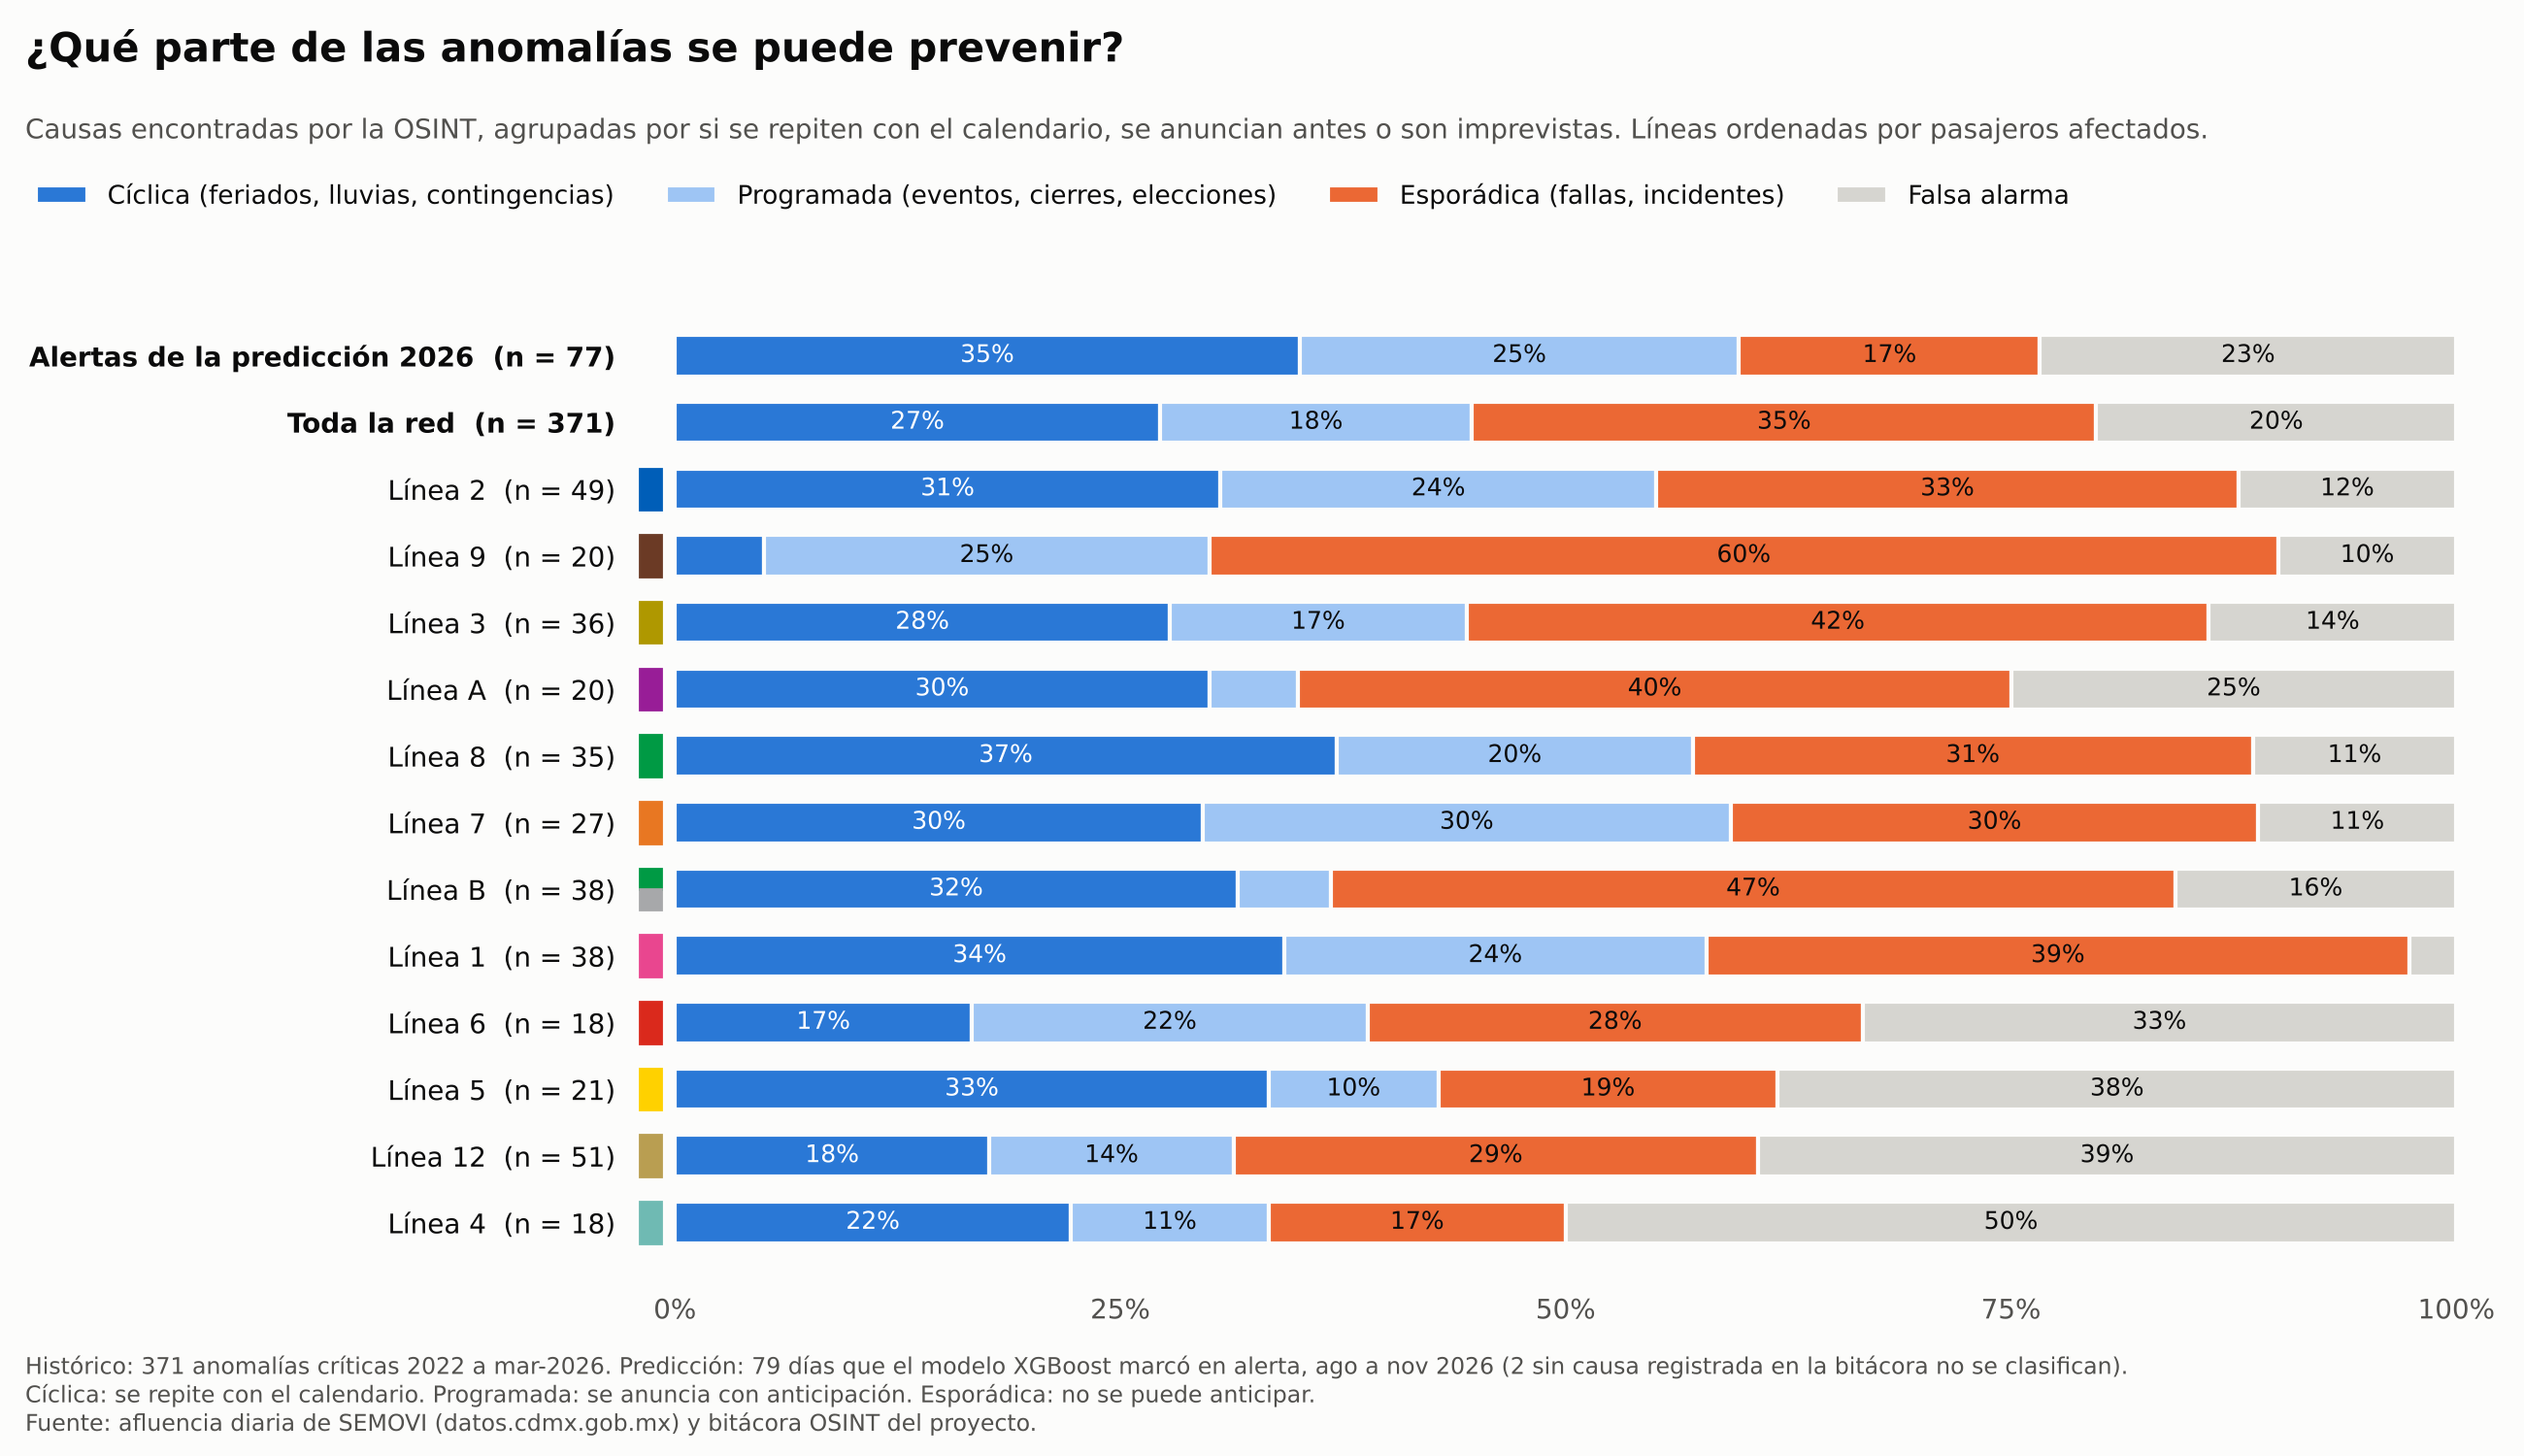
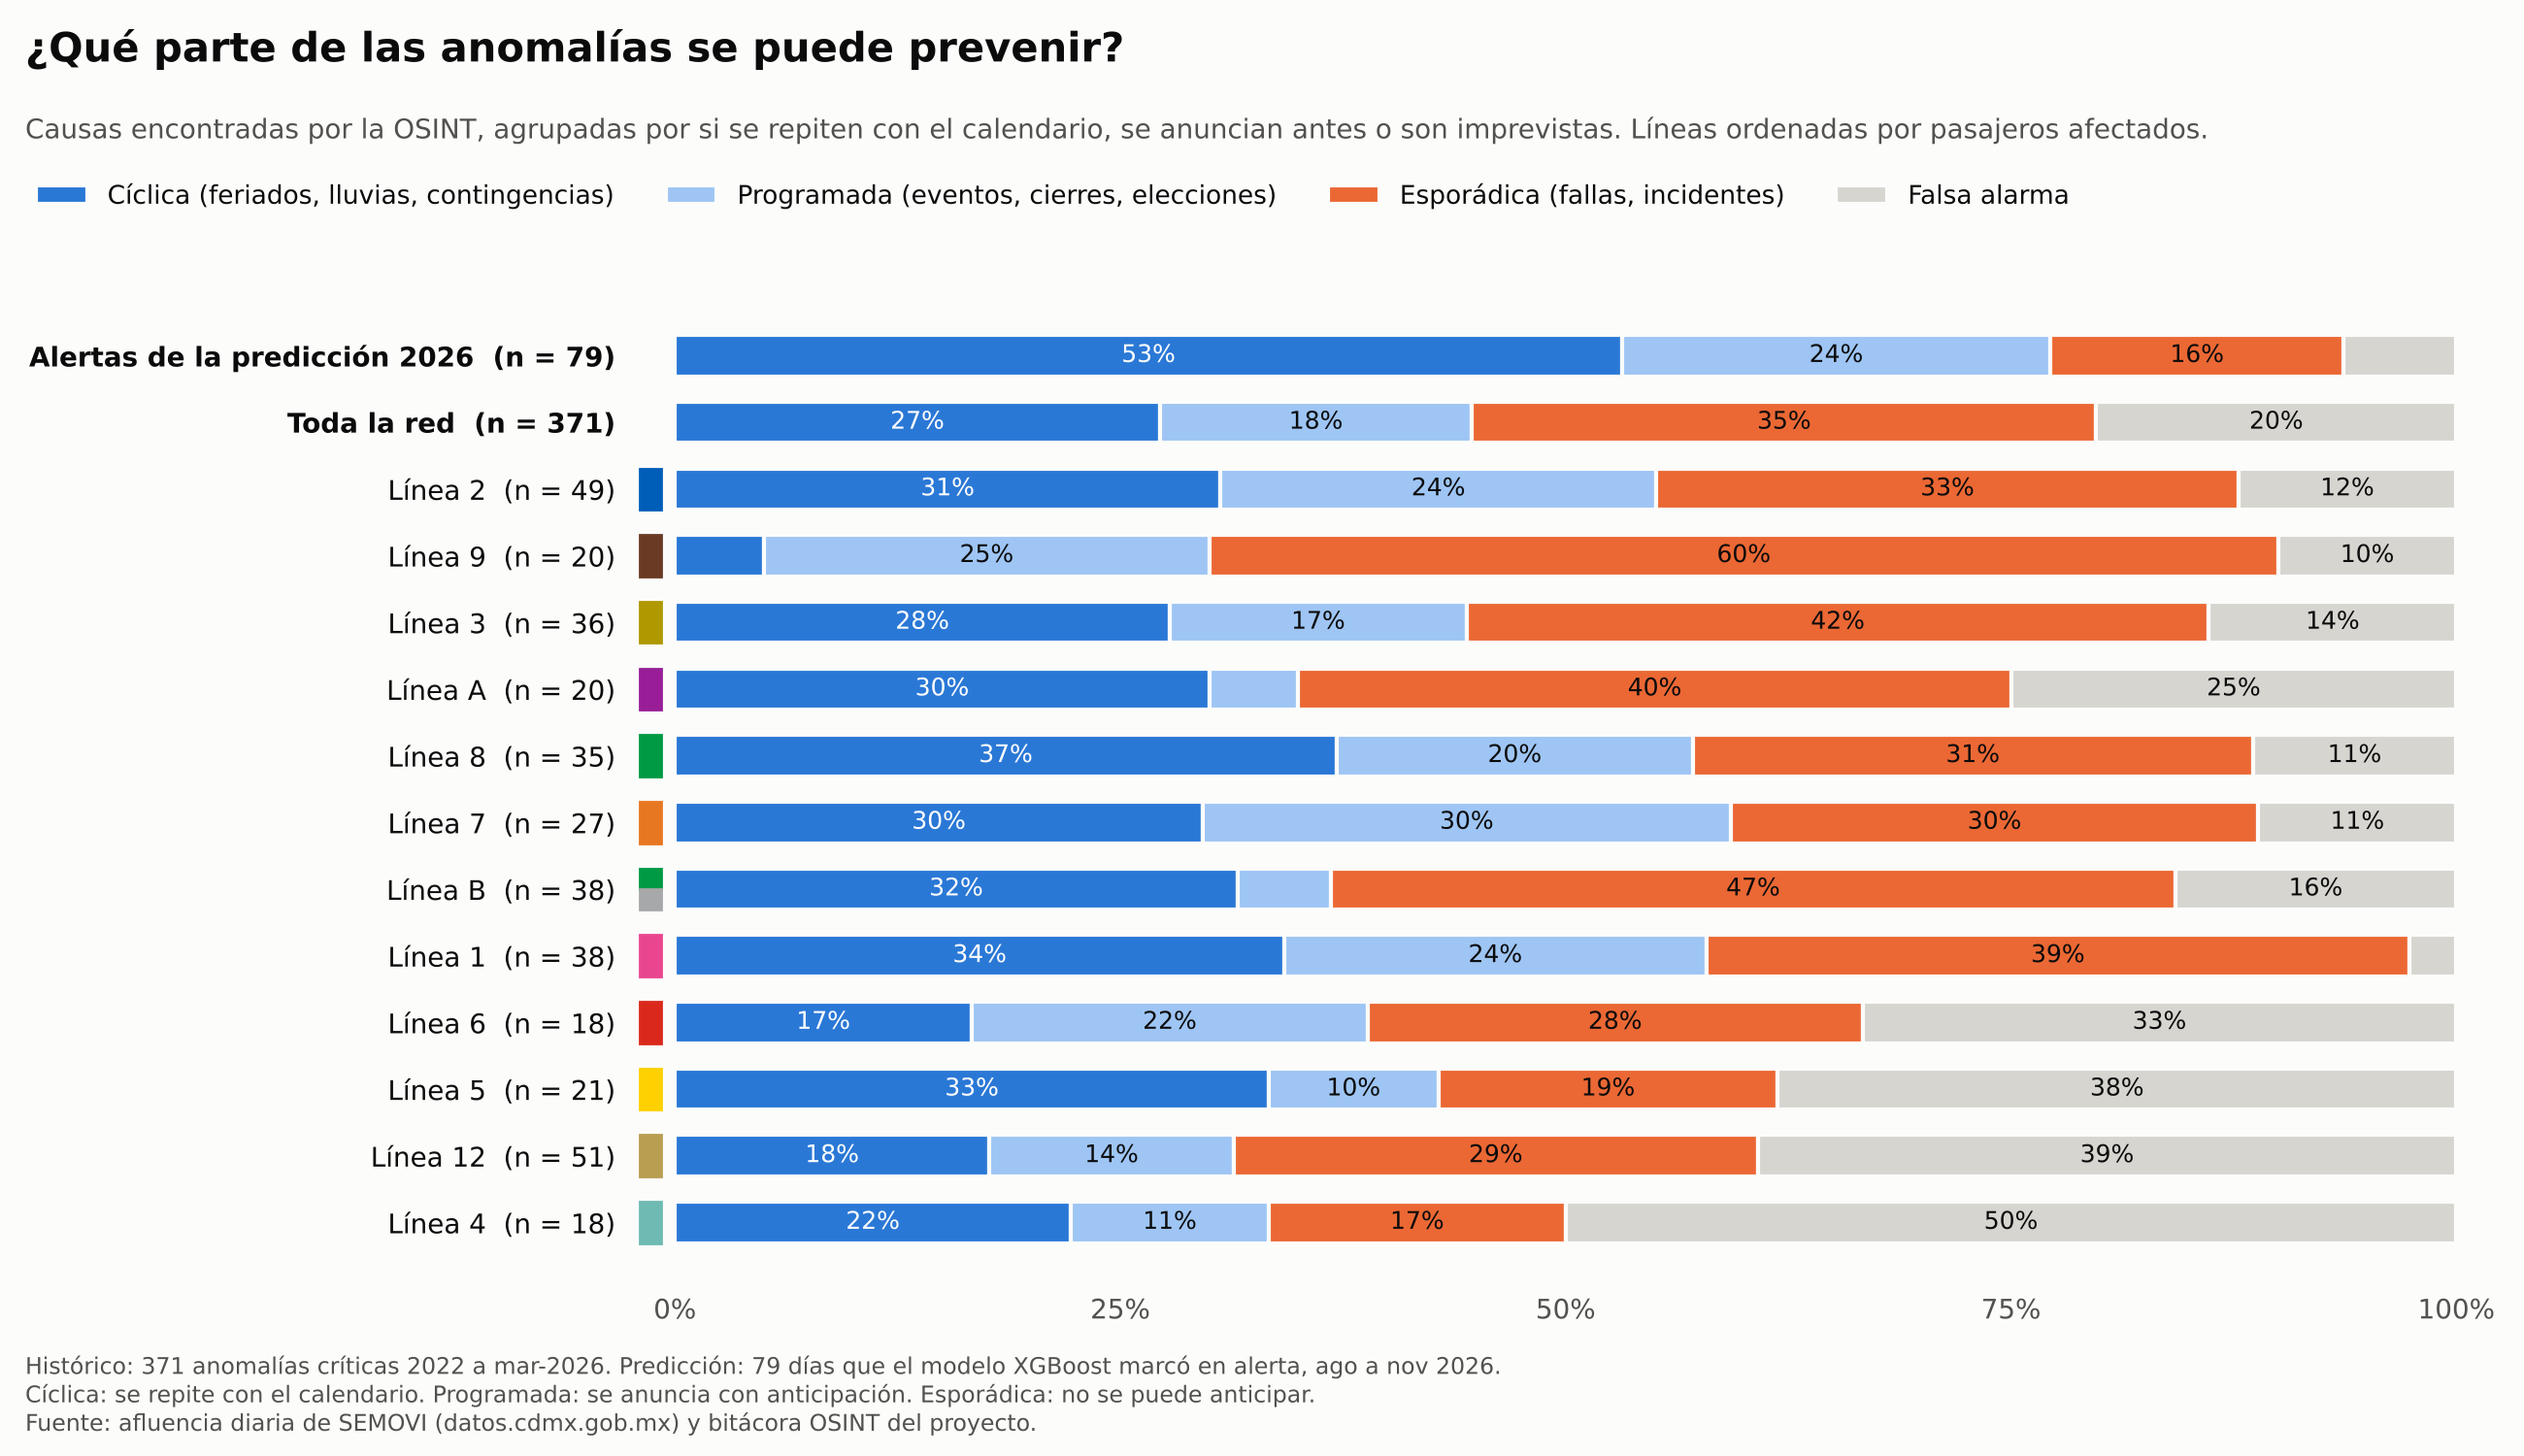
OSINT original: las filas del 16-sep ajustadas también cuentan con causa Feriado (gráficas 01, 02 y 05)
Claude-Session: https://claude.ai/code/session_01TB6ZcUR8u5C6bkpbtsjh4K

Changed region(s): [[0.6854, 0.2147, 0.9346, 0.276], [0.4985, 0.2147, 0.6542, 0.276], [0.5919, 0.92, 0.8412, 0.9507]]

diff --git a/validacion_predicciones/validacion_predicciones.py b/validacion_predicciones/validacion_predicciones.py
@@ -18,6 +18,8 @@ import matplotlib.pyplot as plt
 from matplotlib.colors import LinearSegmentedColormap
 sys.path.insert(0, os.getcwd())   # historial.py vive en la raiz del repo
 from historial import registrar_corrida
+sys.path.insert(0, os.path.join(os.getcwd(), 'validacion_predicciones'))
+from bitacora_prediccion import BITACORA_PRED, leer_bitacora_pred   # OSINT original + ajuste del 16-sep
 
 CARPETA = 'validacion_predicciones'
 DATOS = f'{CARPETA}/datos'
@@ -26,12 +28,10 @@ RES = f'{CARPETA}/resultados'
 os.makedirs(IMG, exist_ok=True)
 os.makedirs(RES, exist_ok=True)
 
-BITACORA_PRED = f'{DATOS}/bitacora_validacion_predicciones_original.csv'   # OSINT manual original del equipo (79 filas, sin correcciones)
 BITACORA_HIST = 'bitacora_investigacion_anomalias_criticas.csv'             # OSINT manual del historico (raiz del repo)
 CORRIDA = f'{DATOS}/propuesta_anomalias_futuras_corrida_validacion.xlsx'    # corrida del modelo de la que salio la muestra
 SEMOVI = f'{DATOS}/afluenciastc_desglosado_2026-01_a_2026-09.csv'          # afluencia real 2026 (datos.cdmx.gob.mx)
 
-FERIADO_AJUSTE = '2026-09-16'   # filas "No" de este dia pasan a "Parcial" (ver leer_bitacora_pred)
 FECHA_CORTE = '2026-11-05'       # ultimo dia ya ocurrido cuando se sorteo la muestra
 INICIO_REAL = '2026-08-02'       # primer dia en alerta de la corrida
 TASA_HISTORICA = 3.0             # % de estacion-dias CRITICOS en el historico (modeling/ANALISIS.md: 2.6% a 3.3%)
@@ -65,18 +65,6 @@ print(N_h.to_string())
 # en la muestra porque se investigo completo).
 
 # %%
-def leer_bitacora_pred(ruta):
-    # La bitacora original viene de la hoja de calculo del equipo: fechas m/d/aaaa y afluencia con comas de miles
-    df = pd.read_csv(ruta, thousands=',')
-    df['Fecha'] = pd.to_datetime(df['Fecha'], format='%m/%d/%Y')
-    # Unico ajuste a la bitacora original (decision del equipo, 25-nov-2026): el 16-sep es feriado
-    # (Independencia), asi que las filas de ese dia calificadas "No" cuentan como evento indirecto.
-    # Solo cambia la calificacion; la causa (Hallazgo_Principal) se deja como la capturo el equipo.
-    feriado_no = (df['Fecha'] == FERIADO_AJUSTE) & df['Ocurrio_Evento'].str.startswith('No')
-    df.loc[feriado_no, 'Ocurrio_Evento'] = 'Parcial - Evento cercano/indirecto'
-    print(f'Ajuste feriado {FERIADO_AJUSTE}: {int(feriado_no.sum())} filas de "No" a "Parcial"')
-    return df
-
 pred = leer_bitacora_pred(BITACORA_PRED)
 pred['respuesta'] = pred['Ocurrio_Evento'].str.split(' - ').str[0].str.strip()
 conteo = pd.crosstab(pred['Estrato'], pred['respuesta']).reindex(ESTRATOS, fill_value=0)

diff --git a/estaciones_y_causas/estaciones_y_causas.py b/estaciones_y_causas/estaciones_y_causas.py
@@ -20,6 +20,8 @@ import matplotlib.pyplot as plt
 from matplotlib.colors import LinearSegmentedColormap
 sys.path.insert(0, os.getcwd())   # historial.py vive en la raiz del repo
 from historial import registrar_corrida
+sys.path.insert(0, os.path.join(os.getcwd(), 'validacion_predicciones'))
+from bitacora_prediccion import leer_bitacora_pred   # OSINT de los dias en alerta 2026 (original + ajuste del 16-sep)
 
 CARPETA = 'estaciones_y_causas'
 IMG = f'{CARPETA}/img'
@@ -29,7 +31,6 @@ os.makedirs(RES, exist_ok=True)
 
 MASTER = 'master_auditoria_consenso_MAD.csv'
 BITACORA = 'bitacora_investigacion_anomalias_criticas.csv'
-BITACORA_PRED = 'validacion_predicciones/datos/bitacora_validacion_predicciones_original.csv'   # OSINT original de los dias en alerta 2026
 TOP_ESTACIONES = 15
 RUIDO = 'Falsa Alarma'   # causa que sirve de referencia: desviaciones sin evento identificado
 
@@ -174,7 +175,7 @@ tipo_causa['pct_de_registros'] = tipo_causa['registros'] / len(osint) * 100
 tipo_causa.round(1).to_csv(f'{RES}/causas_ciclicas_programadas_esporadicas.csv', index=False, encoding='utf-8-sig')
 tipo_linea = pd.crosstab(osint['linea'], osint['tipo_causa']).reindex(columns=TIPOS, fill_value=0)
 tipo_linea.loc['Toda la red'] = tipo_linea.sum()
-pred = pd.read_csv(BITACORA_PRED)
+pred = leer_bitacora_pred()
 pred_tipo = pred['Hallazgo_Principal'].str.strip().str.split(' (', regex=False).str[0].map(TIPO_CAUSA)
 tipo_linea.loc['Alertas de la predicción 2026'] = pred_tipo.value_counts().reindex(TIPOS, fill_value=0)
 tipo_linea_pct = tipo_linea.div(tipo_linea.sum(axis=1), axis=0) * 100

diff --git a/validacion_predicciones/bitacora_prediccion.py b/validacion_predicciones/bitacora_prediccion.py
@@ -1,0 +1,23 @@
+# Lectura de la bitacora OSINT de las predicciones, compartida por
+# validacion_predicciones.py y estaciones_y_causas.py (asi ambos usan los mismos datos).
+# La investigacion es manual; aqui solo se lee y se aplica el ajuste acordado por el equipo.
+import pandas as pd
+
+BITACORA_PRED = 'validacion_predicciones/datos/bitacora_validacion_predicciones_original.csv'   # OSINT original del equipo (79 filas)
+FERIADO_AJUSTE = '2026-09-16'   # Independencia: filas "No" de este dia pasan a Parcial / Feriado
+CAUSA_FERIADO = 'Feriado No Oficial / Cultural'
+
+
+def leer_bitacora_pred(ruta=BITACORA_PRED, avisar=True):
+    # La bitacora original viene de la hoja de calculo del equipo: fechas m/d/aaaa y afluencia con comas de miles
+    df = pd.read_csv(ruta, thousands=',')
+    df['Fecha'] = pd.to_datetime(df['Fecha'], format='%m/%d/%Y')
+    # Unico ajuste a la bitacora original (decision del equipo, 25-nov-2026): el 16-sep es feriado,
+    # asi que las filas de ese dia calificadas "No" cuentan como evento indirecto ("Parcial") y su
+    # causa pasa a feriado. El CSV no se modifica; el ajuste vive solo aqui.
+    feriado_no = (df['Fecha'] == FERIADO_AJUSTE) & df['Ocurrio_Evento'].str.startswith('No')
+    df.loc[feriado_no, 'Ocurrio_Evento'] = 'Parcial - Evento cercano/indirecto'
+    df.loc[feriado_no, 'Hallazgo_Principal'] = CAUSA_FERIADO
+    if avisar:
+        print(f'Ajuste feriado {FERIADO_AJUSTE}: {int(feriado_no.sum())} filas de "No" a "Parcial" con causa "{CAUSA_FERIADO}"')
+    return df

diff --git a/validacion_predicciones/ANALISIS.md b/validacion_predicciones/ANALISIS.md
@@ -13,13 +13,14 @@ La investigación OSINT se hizo a mano; el código solo la lee para calcular tas
 
 | Archivo | Qué es |
 |---|---|
+| `bitacora_prediccion.py` | Lee la bitácora original y aplica el ajuste del 16-sep; la usan este script y `estaciones_y_causas.py` |
 | `validacion_predicciones.py` | Calcula estratos, tasas de la OSINT, cruce con SEMOVI y las 4 gráficas. Se corre desde la raíz del repo |
 | `datos/bitacora_validacion_predicciones_original.csv` | **Fuente vigente.** OSINT original del equipo: 79 estación-días investigados, tal como se capturó en la hoja de cálculo (fechas m/d/aaaa, afluencia con comas de miles, `Afluencia_Real_SEMOVI` vacía) |
 | `datos/respaldo_version_corregida/` | Versión corregida anterior (`bitacora_validacion_predicciones_final.csv`) y su registro de cambios. **Ya no se usa**: el equipo determinó que esa corrección era incorrecta. Se conserva solo como respaldo |
 | `datos/propuesta_anomalias_futuras_corrida_validacion.xlsx` | Corrida del modelo de la que salió la muestra (950 días en alerta, hojas de muestreo e instrucciones). **No** es la salida actual del notebook: la celda que escribe `propuesta_anomalias_futuras.xlsx` la sobrescribiría, por eso va con otro nombre |
 | `datos/afluenciastc_desglosado_2026-01_a_2026-09.csv` | Afluencia diaria desglosada de SEMOVI (datos.cdmx.gob.mx), 1-ene a 30-sep-2026, tal como se descargó |
 | `resultados/tasas_osint_por_estrato.csv` | Conteos Sí / Parcial / No por estrato, tasas y tasa ponderada |
-| `resultados/causas_osint_prediccion.csv` | Distribución de causas (`Hallazgo_Principal`; las 2 filas sin causa capturada salen como "Sin causa registrada") |
+| `resultados/causas_osint_prediccion.csv` | Distribución de causas (`Hallazgo_Principal`, con el ajuste del 16-sep) |
 | `resultados/osint_vs_afluencia_real.csv` | Las 49 filas de la bitácora con dato de SEMOVI: respuesta OSINT, afluencia real, etiqueta del detector y si coinciden |
 | `resultados/dias_en_alerta_vs_afluencia_real.csv` | Los 230 días en alerta con dato real: esperado, banda, real, z robusto y etiqueta del detector |
 | `resultados/tasas_afluencia_real_por_estrato.csv` | Tasa de anomalía CRÍTICA real y de cualquier anomalía por estrato |
@@ -65,11 +66,10 @@ Se usa la bitácora **original** del equipo, sin las correcciones de la versión
 como respaldo.
 
 **Único ajuste (25-nov-2026):** las 15 filas del 16-sep (Independencia, feriado) calificadas "No"
-pasan a "Parcial", porque aunque no se encontró nada en la estación el día es feriado. Se aplica en
-el script (`FERIADO_AJUSTE`), no en el CSV, que se conserva tal como se capturó. Solo cambia la
-calificación: la causa (`Hallazgo_Principal`) queda como la registró el equipo, así que esas filas
-siguen contando como "Falsa Alarma" (13) o sin causa (2) en las gráficas de causas. La fila del
-16-sep con "Sin información suficiente" no cambia.
+pasan a "Parcial" con causa `Feriado No Oficial / Cultural`, porque aunque no se encontró nada en la
+estación el día es feriado (antes eran 13 "Falsa Alarma" y 2 sin causa capturada). Se aplica al leer
+la bitácora (`bitacora_prediccion.py`, que usan este script y `estaciones_y_causas.py`), no en el CSV,
+que se conserva tal como se capturó. La fila del 16-sep con "Sin información suficiente" no cambia.
 
 La columna `Afluencia_Real_SEMOVI` de la original viene vacía; el cruce con la afluencia real lo
 hace el script directamente con el CSV de SEMOVI.
@@ -100,8 +100,8 @@ hace el script directamente con el CSV de SEMOVI.
 | Total muestra | 79 | 37 | 37 | 3 | 2 | 47% | 94% |
 | Ponderado (417) | | | | | | 66% | 95% |
 
-Causas: Evento Masivo 24%, Falsa Alarma 23%, Clima Extremo 16%, Feriado No Oficial / Cultural 9%,
-Contingencia Ambiental 9%, Falla Oculta 8%; el resto 1 a 4% cada una (2 filas sin causa capturada).
+Causas: Feriado No Oficial / Cultural 28% (22), Evento Masivo 24% (19), Clima Extremo 16% (13),
+Contingencia Ambiental 9% (7), Falla Oculta 8% (6), Falsa Alarma 6% (5); el resto 1 a 4% cada una.
 
 ### Afluencia real de SEMOVI (230 días en alerta, 2-ago a 30-sep-2026)
 

diff --git a/estaciones_y_causas/ANALISIS.md b/estaciones_y_causas/ANALISIS.md
@@ -159,9 +159,9 @@ La ciclicidad se ve en los datos:
 - **Histórico vs predicción.** La clasificación se hace con la OSINT histórica, porque cubre cuatro
   años y es una muestra proporcional de todas las anomalías críticas. La OSINT de 2026 solo cubre tres
   meses y viene de días que el modelo eligió. Como contraste, en esos días (bitácora original del
-  equipo, 77 filas con causa capturada) 60% de las causas fueron cíclicas o programadas (35% y 25%),
-  17% esporádicas y 23% falsas alarmas. Eso es lo esperado: el modelo usa el calendario, así que
-  anticipa mejor lo cíclico y lo programado que lo esporádico.
+  equipo con el 16-sep como feriado, 79 filas) 77% de las causas fueron cíclicas o programadas
+  (53% y 24%), 16% esporádicas y 6% falsas alarmas. Eso es lo esperado: el modelo usa el calendario,
+  así que anticipa bien lo cíclico y casi no ve lo esporádico.
 - **Por línea.** Casi la mitad de las anomalías de la red (45%) tienen causa cíclica o programada,
   es decir, prevenible. La Línea 9 es la excepción, con 60% esporádicas, sobre todo fallas sin reporte.
 
